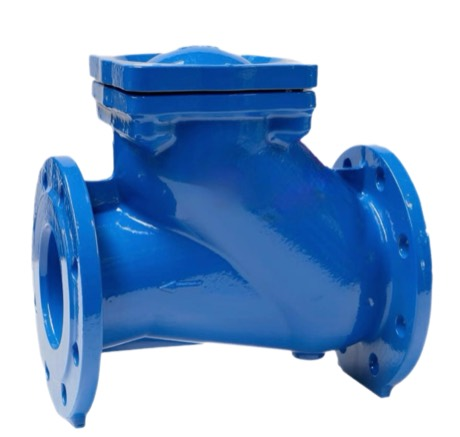
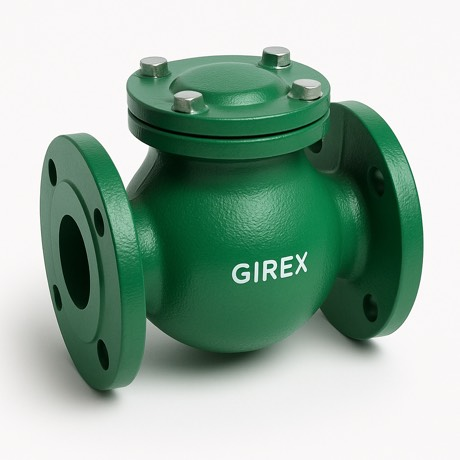
Replace product photos with GIREX-branded renders, remove competitor brand mentions

diff --git a/catalog.html b/catalog.html
@@ -4,7 +4,7 @@
 <meta charset="utf-8">
 <meta name="viewport" content="width=device-width, initial-scale=1">
 <title>Каталог трубопроводной арматуры — GIREX</title>
-<meta name="description" content="Задвижки, затворы, обратные клапаны, фильтры, фланцы и компенсаторы DEX. DN50–DN1600, PN10/16. Поставка по всей России.">
+<meta name="description" content="Задвижки, затворы, обратные клапаны, фильтры, фланцы и компенсаторы GIREX. DN50–DN1600, PN10/16. Поставка по всей России.">
 <link rel="stylesheet" href="https://fonts.googleapis.com/css2?family=Onest:wght@400;500;600;700;800&display=swap">
 <style>
 body { margin: 0; font-family: 'Onest', 'Helvetica Neue', Arial, sans-serif; background: #F5F5F4; color: #16181D; -webkit-font-smoothing: antialiased; min-width: 1440px; --accent: #1A8440; --accent-soft: rgba(26, 132, 64, 0.09); --accent-dark: rgb(20, 103, 50); }
@@ -44,7 +44,7 @@ html { scroll-behavior: smooth; }
 <div style="display: flex; flex-direction: column; gap: 20px; padding: 56px 56px 0">
 <div style="display: flex; align-items: center; gap: 8px; font-size: 13px; color: #8A8F98"><a href="index.html" style="color: #8A8F98">Главная</a><span>/</span><span style="color: #16181D; font-weight: 600">Каталог</span></div>
 <h1 style="font-size: 42px; font-weight: 800; letter-spacing: -0.01em; margin: 0">Каталог продукции</h1>
-<div style="font-size: 16px; line-height: 1.6; color: #5C6470; max-width: 640px">Трубопроводная арматура DEX для водоснабжения, водоотведения и промышленных систем: задвижки, затворы, обратные клапаны, фильтры, фланцевые соединения и компенсаторы. DN50 – DN1600, PN10/16.</div>
+<div style="font-size: 16px; line-height: 1.6; color: #5C6470; max-width: 640px">Трубопроводная арматура GIREX для водоснабжения, водоотведения и промышленных систем: задвижки, затворы, обратные клапаны, фильтры, фланцевые соединения и компенсаторы. DN50 – DN1600, PN10/16.</div>
 <div style="display: flex; gap: 10px; flex-wrap: wrap"><a href="#g-zadvizhki" style="background: #FFFFFF; border: 1px solid #EAE8E4; border-radius: 999px; padding: 10px 18px; font-size: 13.5px; font-weight: 600; color: #16181D">Задвижки</a>
 <a href="#g-zatvory" style="background: #FFFFFF; border: 1px solid #EAE8E4; border-radius: 999px; padding: 10px 18px; font-size: 13.5px; font-weight: 600; color: #16181D">Затворы дисковые</a>
 <a href="#g-klapany" style="background: #FFFFFF; border: 1px solid #EAE8E4; border-radius: 999px; padding: 10px 18px; font-size: 13.5px; font-weight: 600; color: #16181D">Обратные клапаны</a>

diff --git a/index.html b/index.html
@@ -4,7 +4,7 @@
 <meta charset="utf-8">
 <meta name="viewport" content="width=device-width, initial-scale=1">
 <title>GIREX — трубопроводная арматура для строительства и ЖКХ</title>
-<meta name="description" content="Задвижки, затворы, обратные клапаны, фильтры, фланцы и компенсаторы DEX. DN50–DN1600, поставка по всей России. GIREX.">
+<meta name="description" content="Задвижки, затворы, обратные клапаны, фильтры, фланцы и компенсаторы GIREX. DN50–DN1600, поставка по всей России. GIREX.">
 
   <link rel="stylesheet" href="https://fonts.googleapis.com/css2?family=Onest:wght@400;500;600;700;800&display=swap">
   <style>
@@ -66,7 +66,7 @@
       <div style="display: flex; flex-direction: column; gap: 28px; width: 540px; flex-shrink: 0">
         <div style="display: flex; align-items: center; gap: 10px">
           <div style="width: 28px; height: 3px; background: var(--accent); border-radius: 2px"></div>
-          <div style="font-size: 13px; font-weight: 600; letter-spacing: 0.14em; color: #5C6470">ТРУБОПРОВОДНАЯ АРМАТУРА DEX</div>
+          <div style="font-size: 13px; font-weight: 600; letter-spacing: 0.14em; color: #5C6470">ТРУБОПРОВОДНАЯ АРМАТУРА GIREX</div>
         </div>
         <div style="font-size: 58px; font-weight: 800; line-height: 1.08; letter-spacing: -0.02em">Трубопроводная арматура <span style="color: var(--accent)">под ваш объект</span></div>
         <div style="font-size: 17px; line-height: 1.6; color: #5C6470; max-width: 500px">Задвижки, затворы, обратные клапаны, фильтры, фланцы и компенсаторы DN50 – DN1600 — со склада и под заказ, напрямую от GIREX.</div>
